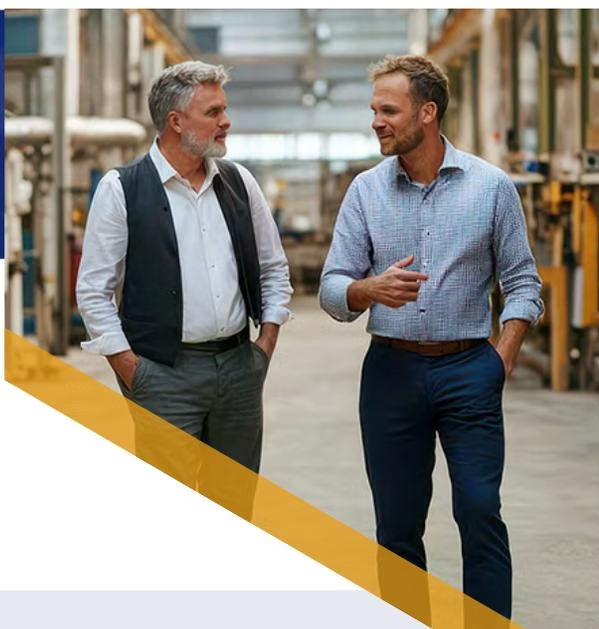
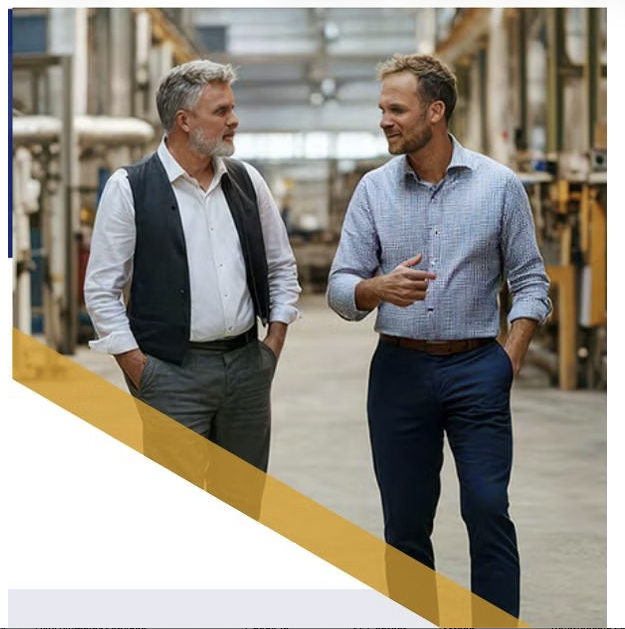
For Buyers: swap in user-provided PDF hero image, taller hero
Use the higher-quality screenshot (625x629) the user supplied with
the gold parallelogram baked in. Bump hero min-height to 480px and
shift to a 55/45 grid so the near-square image fits without losing
the wedge or the men's heads.

diff --git a/index.html b/index.html
@@ -3252,8 +3252,8 @@
       position: relative;
     }
     #page-for-buyers .hero {
-      min-height: 380px;
-      grid-template-columns: 50% 50%;
+      min-height: 480px;
+      grid-template-columns: 55% 45%;
       overflow: hidden;
       position: relative;
       background: #fff;
@@ -3277,7 +3277,7 @@
       width: 100%;
       height: 100%;
       object-fit: cover;
-      object-position: right bottom;
+      object-position: center bottom;
       z-index: 1;
     }
     /* The PDF source image already includes the gold wedge baked in,
